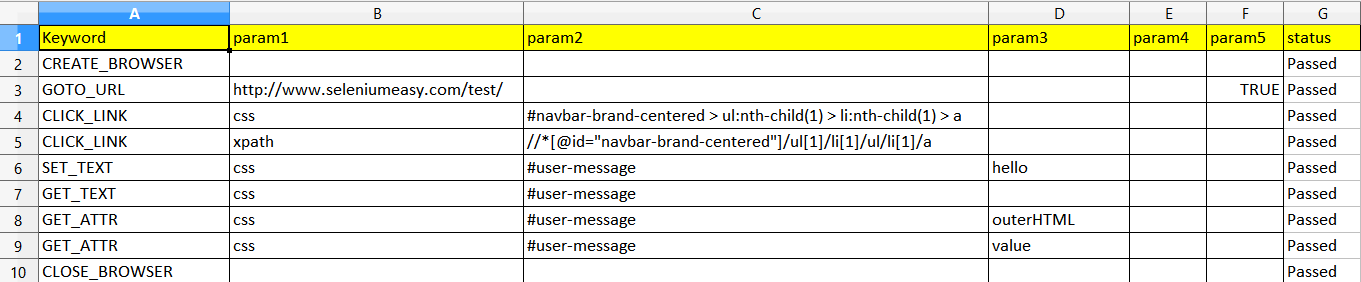
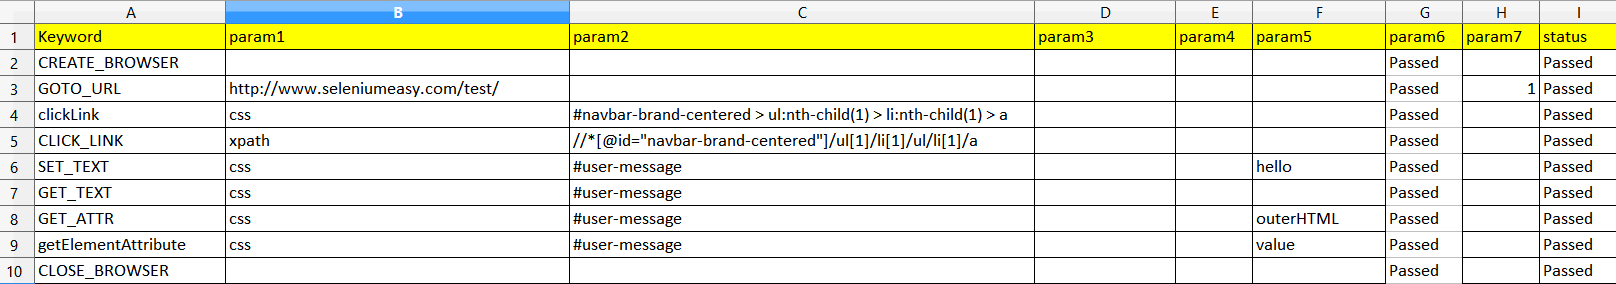
intermediate revision - shifted columns to reserve room for Protractor locator arguments, added reciprocal lookup

Changed region(s): [[0.0, 0.0, 1.0, 1.0]]

diff --git a/keyword_driven_framework/src/main/java/org/utils/KeywordLibrary.java b/keyword_driven_framework/src/main/java/org/utils/KeywordLibrary.java
@@ -5,6 +5,7 @@ import java.io.FileInputStream;
 import java.io.IOException;
 import java.lang.reflect.Method;
 import java.util.ArrayList;
+import java.util.Arrays;
 import java.util.HashMap;
 import java.util.List;
 import java.util.Map;
@@ -70,7 +71,6 @@ public class KeywordLibrary {
 		methodTable.put("VERIFY_ATTR", "verifyAttribute");
 		methodTable.put("VERIFY_TEXT", "verifyText");
 		methodTable.put("WAIT", "wait");
-		
 	}
 
 	public static void closeBrowser(Map<String, String> params) {
@@ -84,6 +84,14 @@ public class KeywordLibrary {
 	}
 
 	public static void callMethod(String keyword, Map<String, String> params) {
+		// reciprocal references
+		for (String methodName : methodTable.values()
+				.toArray(new String[methodTable.values().size()])) {
+			// System.out.println("Adding keyword for method: " + methodName);
+			if (!methodTable.containsKey(methodName)) {
+				methodTable.put(methodName, methodName);
+			}
+		}
 		if (methodTable.containsKey(keyword)) {
 			String methodName = methodTable.get(keyword);
 			try {
@@ -91,7 +99,7 @@ public class KeywordLibrary {
 				Method _method = _class.getMethod(methodName, Map.class);
 				System.out.println(keyword + " call method: " + methodName + " with "
 						+ String.join(",", params.values()));
-			 _method.invoke(null, params);
+				_method.invoke(null, params);
 			} catch (Exception e) {
 				e.printStackTrace();
 			}
@@ -129,7 +137,7 @@ public class KeywordLibrary {
 	public static void enterText(Map<String, String> params) {
 		selectorType = params.get("param1");
 		selectorValue = params.get("param2");
-		textData = params.get("param3");
+		textData = params.get("param5");
 		try {
 			switch (selectorType) {
 			case "name":
@@ -218,7 +226,7 @@ public class KeywordLibrary {
 	public static void selectDropDown(Map<String, String> params) {
 		selectorType = params.get("param1");
 		selectorValue = params.get("param2");
-		visibleText = params.get("param3");
+		visibleText = params.get("param5");
 		Select select;
 		try {
 			switch (selectorType) {
@@ -249,7 +257,7 @@ public class KeywordLibrary {
 		boolean flag = false;
 		selectorType = params.get("param1");
 		selectorValue = params.get("param2");
-		attributeName = params.get("param3");
+		attributeName = params.get("param5");
 		expectedValue = params.get("param4");
 		try {
 			switch (selectorType) {
@@ -282,7 +290,7 @@ public class KeywordLibrary {
 		boolean flag = false;
 		selectorType = params.get("param1");
 		selectorValue = params.get("param2");
-		expectedText = params.get("param3");
+		expectedText = params.get("param5");
 		try {
 			switch (selectorType) {
 			case "name":
@@ -341,7 +349,7 @@ public class KeywordLibrary {
 	public static void getElementAttribute(Map<String, String> params) {
 		selectorType = params.get("param1");
 		selectorValue = params.get("param2");
-		attributeName = params.get("param3");
+		attributeName = params.get("param5");
 		WebElement element = null;
 		String value = null;
 		try {
@@ -410,7 +418,7 @@ public class KeywordLibrary {
 		List<WebElement> elements = new ArrayList<>();
 		selectorType = params.get("param1");
 		selectorValue = params.get("param2");
-		expectedValue = params.get("param3");
+		expectedValue = params.get("param5");
 		try {
 			if (expectedValue.equals("null")) {
 				switch (selectorType) {
@@ -467,7 +475,7 @@ public class KeywordLibrary {
 	public static void clickRadioButton(Map<String, String> params) {
 		selectorType = params.get("param1");
 		selectorValue = params.get("param2");
-		expectedValue = params.get("param3");
+		expectedValue = params.get("param5");
 		List<WebElement> elements = new ArrayList<>();
 		WebElement element;
 		try {
@@ -534,7 +542,7 @@ public class KeywordLibrary {
 	public static void switchFrame(Map<String, String> params) {
 		param1 = params.get("param1");
 		param2 = params.get("param2");
-		param3 = params.get("param3");
+		param3 = params.get("param5");
 		try {
 			switch (param1) {
 			case "name":

diff --git a/keyword_driven_framework/README.md b/keyword_driven_framework/README.md
@@ -11,7 +11,16 @@ cp TestCase.xls ~/Desktop
 mvn install
 java -jar target/keyword_framework-0.3-SNAPSHOT.jar
 ```
-The launcher uses reflection to associate _keywords_ with *class methods* - a single method mayhave several keywords pointing to it:
+The launcher uses reflection to associate _keywords_ with *class methods* 
+```java
+private static Map<String, String> methodTable = new HashMap<>();
+static {
+  methodTable.put("CLICK", "clickButton");
+  methodTable.put("CLICK_BUTTON", "clickButton");
+...
+
+```
+- a single method may have several keywords pointing to it;
 ```java
 
 String methodName = methodTable.get(keyword);
@@ -23,7 +32,14 @@ try {
   _method.invoke(null, params);
 ```
 
-The test step arguments are passed as hash of parameters. The step status is retutned via `params["status"]` entry, the step result (if any) is returned via `param["result"]`
+The test step arguments are passed as hash of parameters.  That is done so one does not care about the method signature. 
+Also the [AngularJS](https://angularjs.org/) introduced `NgBy` 
+locators which fequently require (multiple) additional arguments like e.g.
+```java
+@FindAll({ @FindBy(how = How.REPEATER_COLUMN, using = "row in rows", column = "name") })
+private List<WebElement> friendNames;
+```
+The step status is returned via `params["status"]` entry, the step result (if any) is returned via `params["result"]`
 
 ### Author
 [Serguei Kouzmine](kouzmine_serguei@yahoo.com)
